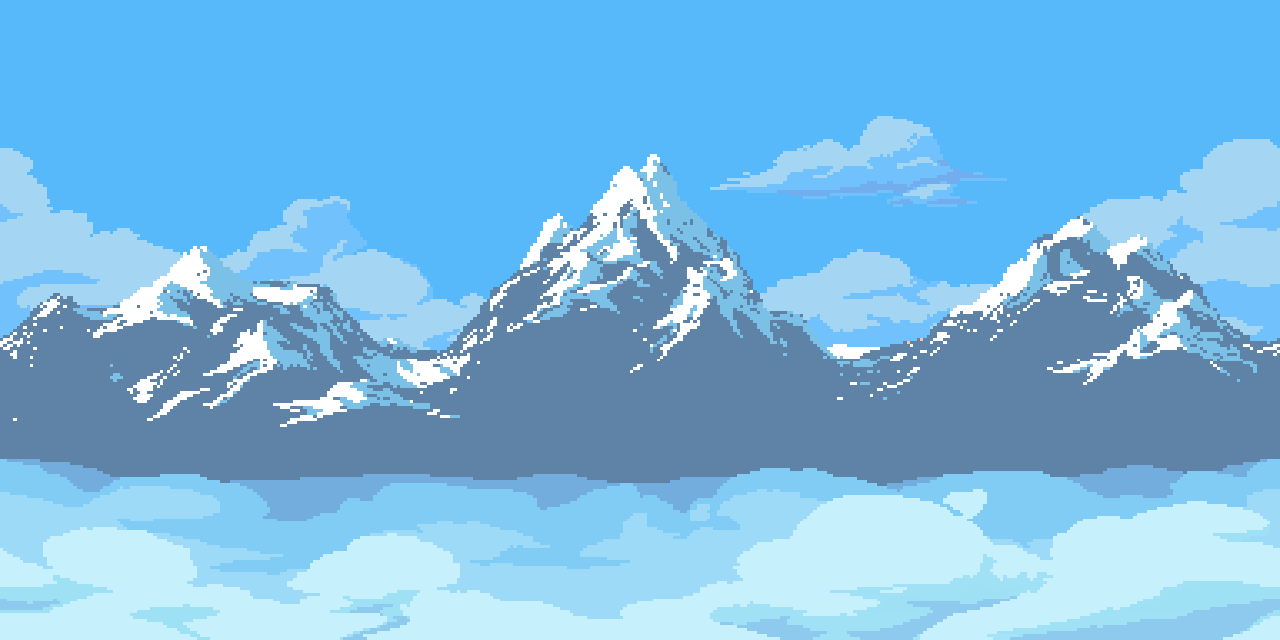
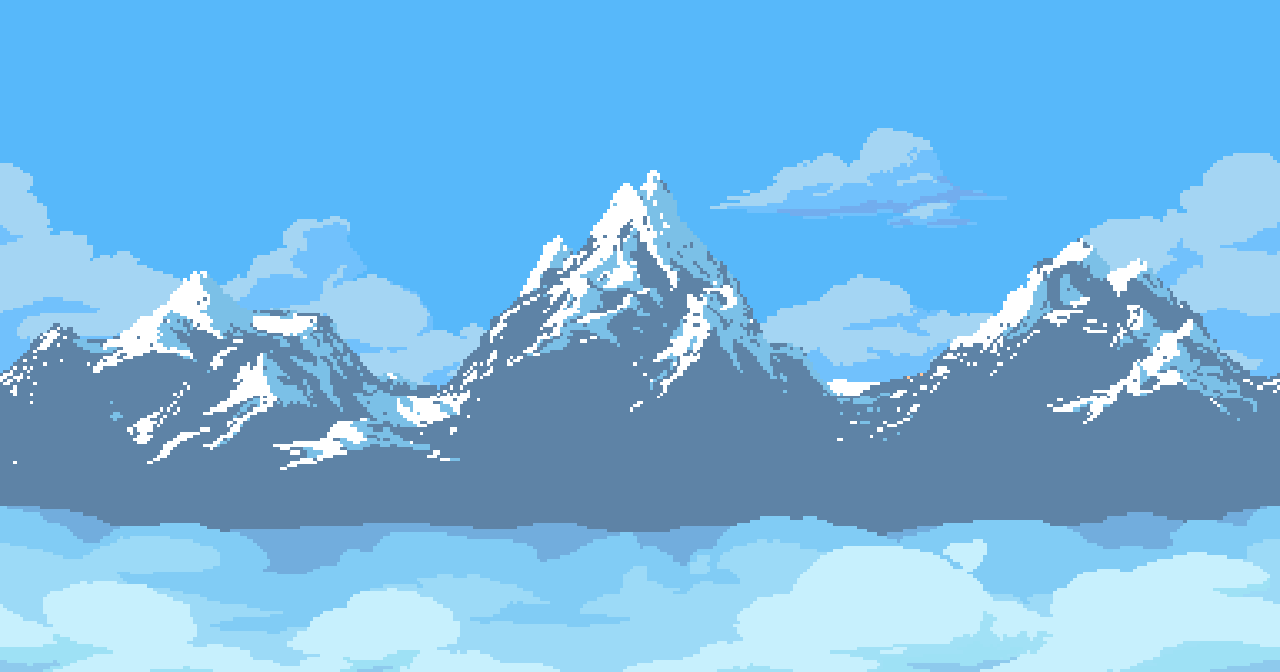
fix bug

diff --git a/src/uet/oop/bomberman/Game.java b/src/uet/oop/bomberman/Game.java
@@ -26,11 +26,10 @@ import uet.oop.bomberman.graphics.Sprite;
 import java.io.File;
 
 public class Game extends Application {
-    public static final int WIDTH_CAMERA = Sprite.SCALED_SIZE * 20;
-    public static final int HEIGHT = Sprite.SCALED_SIZE * BombermanGame.HEIGHT;
-    public static final int WIDTH = WIDTH_CAMERA + Board.WIDTH;
+    public static final int HEIGHT = Sprite.SCALED_SIZE * BombermanGame.HEIGHT + Board.HEIGHT;
+    public static final int WIDTH = Sprite.SCALED_SIZE * BombermanGame.WIDTH;
     private int maxLevel = 4;
-  
+    private Canvas boardCanvas;
     private Canvas canvas;
     private GraphicsContext gc;
 
@@ -51,14 +50,16 @@ public class Game extends Application {
     @Override
     public void start(Stage stage) {
         // Tao Canvas
-        canvas = new Canvas(BombermanGame.WIDTH * Sprite.SCALED_SIZE, BombermanGame.HEIGHT * Sprite.SCALED_SIZE);
-
+        boardCanvas = new Canvas(Game.WIDTH, HEIGHT);
+        canvas = new Canvas(Game.WIDTH, HEIGHT);
+        canvas.setTranslateY(Board.HEIGHT);
         gc = canvas.getGraphicsContext2D();
         gc.setFill(Color.BLACK);
 
         // Tao root container
         root = new Group();
         root.getChildren().add(canvas);
+        root.getChildren().add(boardCanvas);
 
         // Tao scene
         scene = new Scene(root, WIDTH, HEIGHT, Color.BLACK);
@@ -77,12 +78,13 @@ public class Game extends Application {
             @Override
             public void handle(long l) {
                 if (menu.isRun()) {
-                    menu.run(canvas, gc, stage);
+                    menu.run(canvas, boardCanvas.getGraphicsContext2D(), stage);
                     return;
                 }
 
                 if (levelGameUI.isRun()) {
                     menu.stop(stage);
+                    restartCanvas();
                     bombermanGame.getSoundTrack().playStageStart();
                     levelGameUI.run(root);
                     return;
@@ -90,7 +92,7 @@ public class Game extends Application {
 
                 if (bombermanGame.isRun()) {
                     bombermanGame.getSoundTrack().playLevelThemeAt(bombermanGame.getLevel());
-                    bombermanGame.run(canvas, gc, scene, root);
+                    bombermanGame.run(canvas, gc, boardCanvas.getGraphicsContext2D(), scene, root);
                     return;
                 }
 
@@ -136,7 +138,10 @@ public class Game extends Application {
     }
 
     private void setCanvas() {
-        canvas = new Canvas(Sprite.SCALED_SIZE * BombermanGame.WIDTH, Sprite.SCALED_SIZE * BombermanGame.HEIGHT);
+        boardCanvas = new Canvas(WIDTH, HEIGHT);
+        boardCanvas.getGraphicsContext2D().setFill(Color.BLACK);
+        canvas = new Canvas(WIDTH, HEIGHT);
+        canvas.setTranslateY(Board.HEIGHT);
         gc = canvas.getGraphicsContext2D();
         gc.setFill(Color.BLACK);
     }
@@ -171,7 +176,9 @@ public class Game extends Application {
 
     public void restartCanvas() {
         root.getChildren().remove(canvas);
+        root.getChildren().remove(boardCanvas);
         setCanvas();
+        root.getChildren().add(boardCanvas);
         root.getChildren().add(canvas);
     }
 

diff --git a/src/uet/oop/bomberman/BombermanGame.java b/src/uet/oop/bomberman/BombermanGame.java
@@ -244,7 +244,7 @@ public class BombermanGame {
         enemyManagement.update();
         board.update(bomberman.getHP(), enemyManagement.getNumEnemies(),
                 bomberBombManagement.getLeftBomb(), bomberBombManagement.getFlame(),
-                bomberman.getSpeed(), getCurrentTimeGame(), bomberScore.getCurrentScore());
+                bomberman.getSpeed());
         updateCurrentTimeGame();
         bomberBombManagement.update();
         enemyBombManagement.update();
@@ -329,7 +329,7 @@ public class BombermanGame {
         }
     }
 
-    public void render(Canvas canvas, GraphicsContext gc) {
+    public void render(Canvas canvas, GraphicsContext gc, GraphicsContext boardGc) {
         gc.clearRect(0, 0, canvas.getWidth(), canvas.getHeight());
         stillObjects.forEach(g -> g.render(gc));
         entities.forEach(g -> g.render(gc));
@@ -338,12 +338,12 @@ public class BombermanGame {
         enemyBombManagement.render(gc);
         enemyManagement.render(gc);
 
-        board.render(gc);
+        board.render(boardGc);
         bomberman.render(gc);
         miniInfoManagement.render(gc);
     }
 
-    public void run(Canvas canvas, GraphicsContext gc, Scene scene, Group root) {
+    public void run(Canvas canvas, GraphicsContext gc, GraphicsContext boardGc, Scene scene, Group root) {
         if (!isRun) {
             return;
         }
@@ -359,15 +359,15 @@ public class BombermanGame {
         if (isLose) {
             currentTimeLose++;
             if (currentTimeLose > TIME_LOSE) {
-                setEnd(root);
+                setEnd();
             }
         }
 
 
         if (!isAdd) {
-            setAdd(root);
+            setAdd();
         }
-        render(canvas, gc);
+        render(canvas, gc, boardGc);
         update();
         updateInput(scene);
         updateCombat(scene);
@@ -378,13 +378,11 @@ public class BombermanGame {
     }
 
 
-    private void setAdd(Group root) {
+    private void setAdd() {
         isAdd = true;
-        board.pushInRoot(root);
     }
 
-    private void setEnd(Group root) {
-        board.popInRoot(root);
+    private void setEnd() {
         miniInfoManagement.clear();
         isRun = false;
     }

diff --git a/src/uet/oop/bomberman/UI/Menu/Menu.java b/src/uet/oop/bomberman/UI/Menu/Menu.java
@@ -8,6 +8,7 @@ import javafx.stage.Stage;
 
 
 import uet.oop.bomberman.Game;
+import uet.oop.bomberman.UI.GameUI.Board;
 import uet.oop.bomberman.UI.Menu.animationMenu.AnimatedGraphic;
 import uet.oop.bomberman.UI.Menu.animationMenu.MenuList.MenuLists;
 import uet.oop.bomberman.UI.Menu.animationMenu.Background;
@@ -31,6 +32,7 @@ public class Menu {
         //Add background and animation
         background = new Background("file:res/Background/mountain.png",
                 0, 0, 2, Game.WIDTH, Game.HEIGHT);
+
         animatedGraphic = new AnimatedGraphic("file:res/textures/menu_logo.png", 0, 50);
         animatedGraphic.resize(0.25);
         animatedGraphic.setCenterHorizontal(Game.WIDTH);
@@ -55,6 +57,7 @@ public class Menu {
     }
 
     public void render(Canvas canvas, GraphicsContext gc) {
+        gc.moveTo(0, 0);
         SoundManager.getSoundManager().play();
         gc.clearRect(0, 0, canvas.getWidth(), canvas.getHeight());
         gc.setFill(Color.BLACK);

diff --git a/src/uet/oop/bomberman/entities/Entity.java b/src/uet/oop/bomberman/entities/Entity.java
@@ -174,9 +174,9 @@ public abstract class Entity  {
     public int get_xRender(int x) {
         int xRender = x;
 
-        if (game.getBomberman().getX() > Game.WIDTH_CAMERA / 2) {
-            xRender -= Math.min(game.getBomberman().getX() + game.getBomberman().getSolidArea().x - Game.WIDTH_CAMERA / 2,
-                    BombermanGame.WIDTH * Sprite.SCALED_SIZE - Game.WIDTH_CAMERA);
+        if (game.getBomberman().getX() > Game.WIDTH / 2) {
+            xRender -= Math.min(game.getBomberman().getX() + game.getBomberman().getSolidArea().x - Game.WIDTH / 2,
+                    BombermanGame.WIDTH * Sprite.SCALED_SIZE - Game.WIDTH);
         }
         return xRender;
     }
